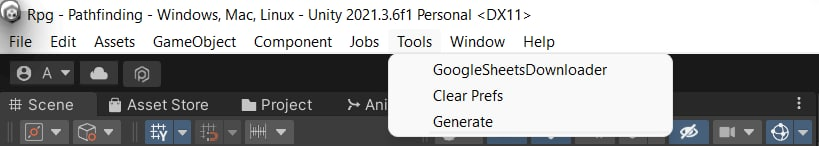
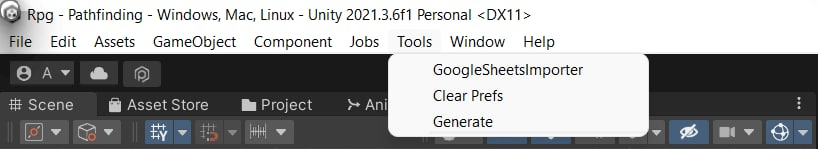
Fix naming

diff --git a/AB_GoogleSheetImporter/Editor/GSimporterEditor.cs b/AB_GoogleSheetImporter/Editor/GSimporterEditor.cs
@@ -21,11 +21,11 @@ namespace AB_GoogleSheetImporter.Editor
         private List<TableData> _content;
         private GSImporter _importer;
 
-        [MenuItem("Tools/GoogleSheetsDownloader")]
+        [MenuItem("Tools/GoogleSheetsImporter")]
         public static void ShowExample()
         {
             var wnd = GetWindow<GSImporterEditor>();
-            wnd.titleContent = new GUIContent("GoogleSheetsDownloader");
+            wnd.titleContent = new GUIContent("GoogleSheetsImporter");
         }
 
         private void OnDisable()
